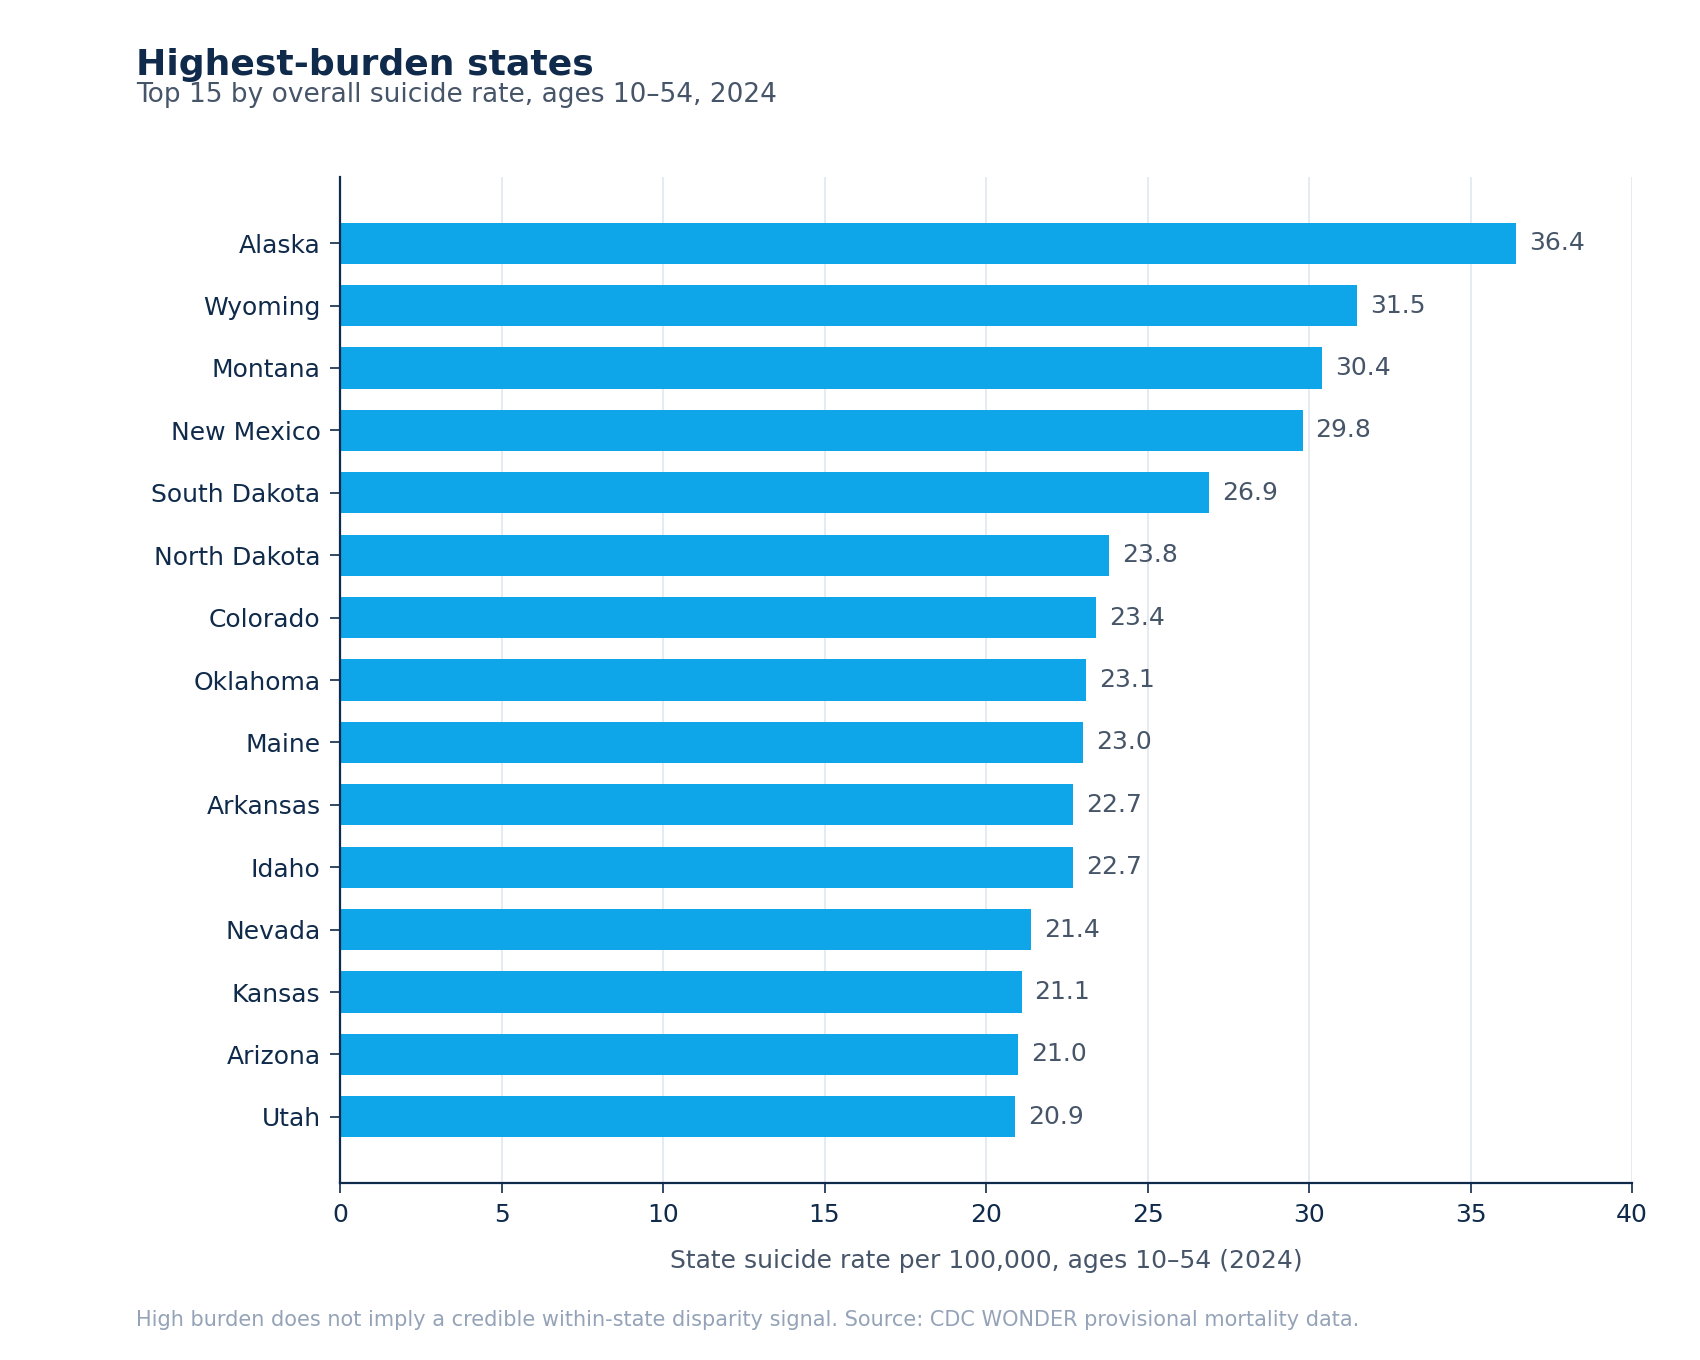
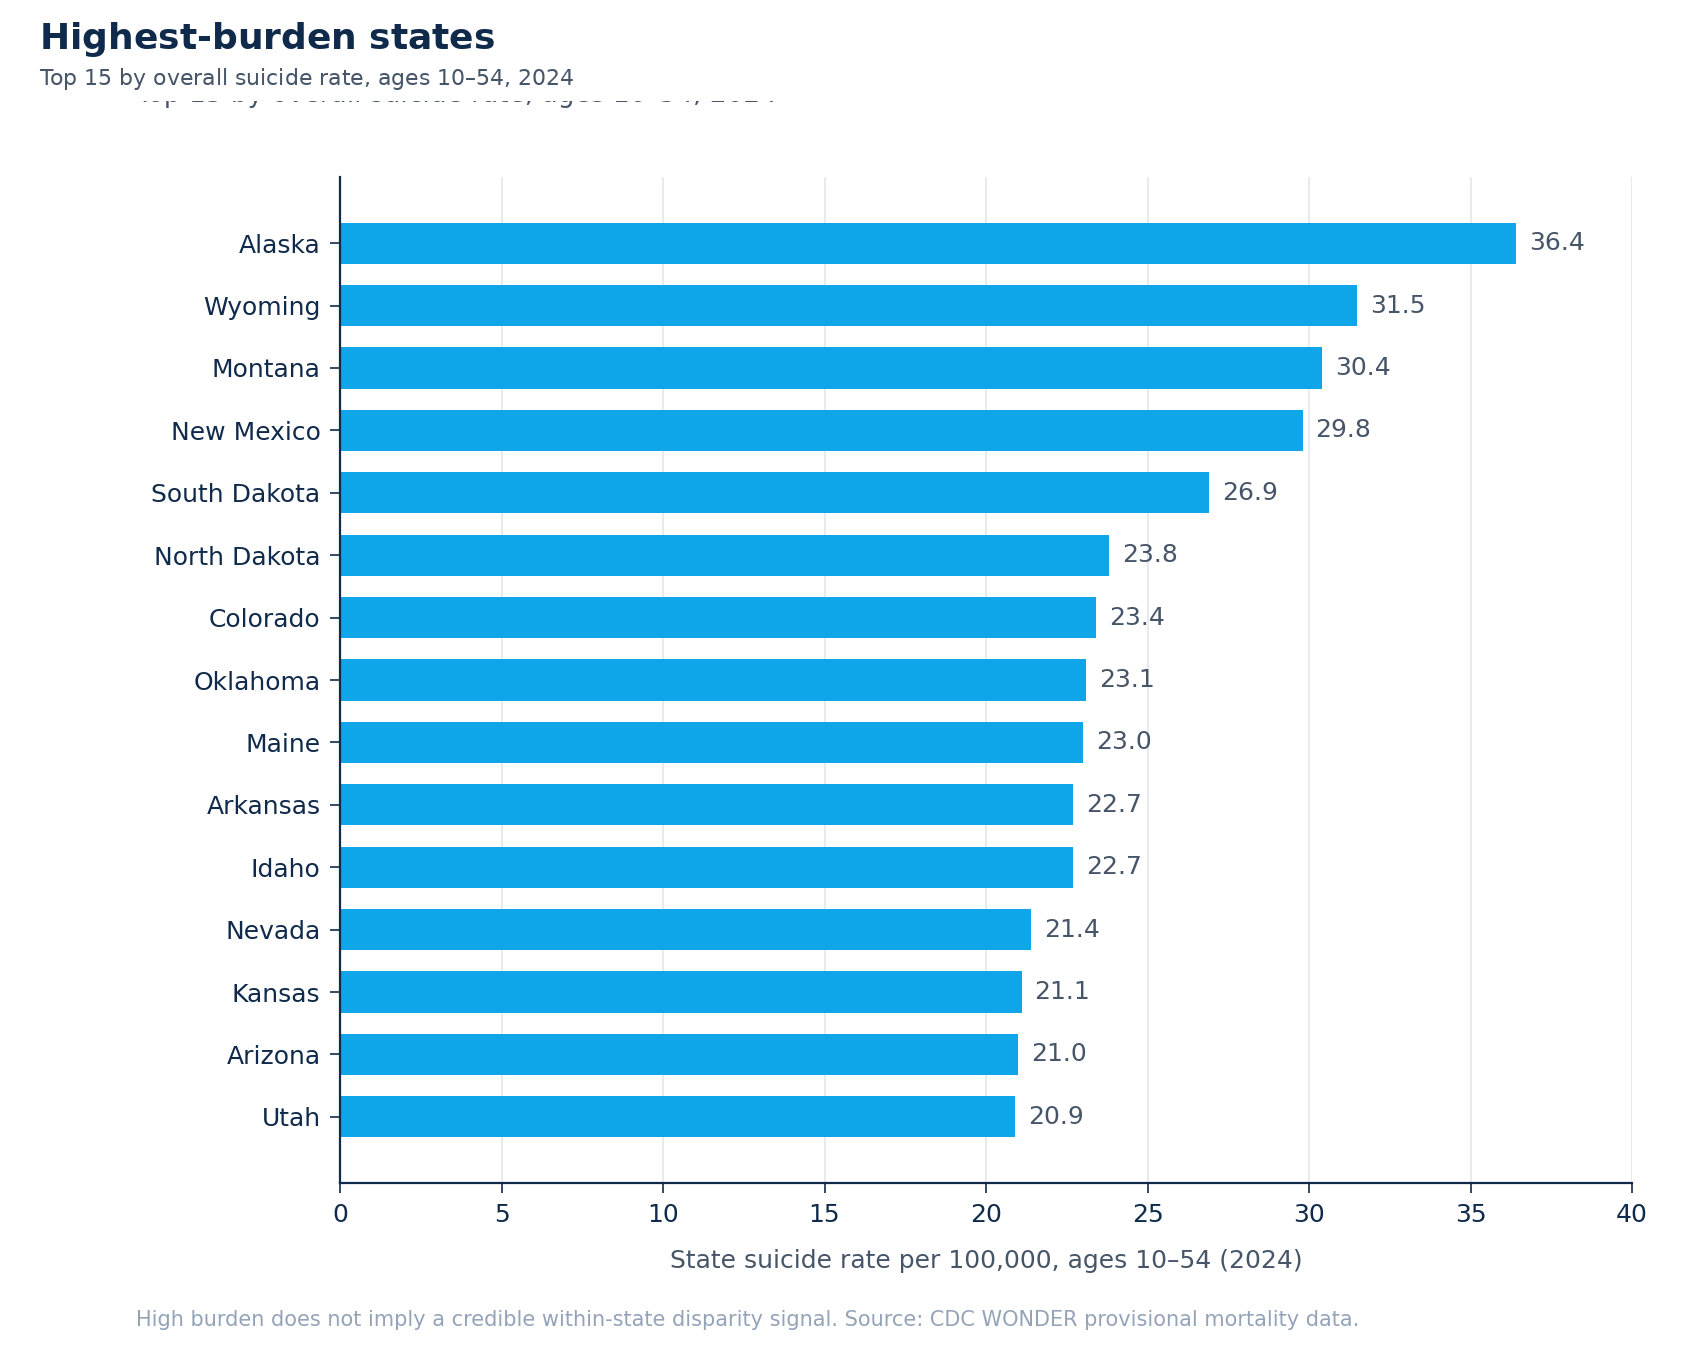
Add files via upload
revsied chart titles and addressing the senetcne structure issue

Changed region(s): [[0.0312, 0.0, 0.4053, 0.0926]]

diff --git a/app/library/essays.tsx b/app/library/essays.tsx
@@ -1680,19 +1680,19 @@ export const ESSAYS: Essay[] = [
           </p>
           <p>
             This is a field note, not a study. It is an exploratory,
-            reliability-filtered read of seven years of CDC WONDER mortality
-            data, and its only real claim is structural: burden and disparity
+            reliability-filtered read of CDC WONDER mortality data from 2021
+            to 2024, and its only real claim is structural: burden and disparity
             are two different signals, the priority list you would build from
             one is not the list you would build from the other, and a
             prioritization framework that shows both, and stays honest about
-            what it can’t see, changes the allocation decision. Written for the
-            person who has to defend that decision after it’s made.
+            what it can’t see, changes the allocation decision. This piece is
+            for the person who has to defend that decision after it’s made.
           </p>
         </Brief>
 
         <H2>The headline that hides the signal</H2>
         <P>
-          Start with the good news, because it is real. Across the younger age
+          Let’s start with the good news, because it is real. Across the younger age
           bands, suicide rates fell between 2021 and 2024, and not slightly.
           Ages 10–14 down about 16 percent. Ages 15–19 down 13 percent. Ages
           20–24 down 13 percent. Ages 25–34 down 12 percent. Four bands, every
@@ -1900,9 +1900,9 @@ export const ESSAYS: Essay[] = [
 
         <H2>What this is really about</H2>
         <P>
-          Strip the subject matter away and this is a decision-systems problem.
+          Underneath the subject matter, this is a decision-systems problem.
           An organization has a real decision to make (where prevention
-          resources go) and the data it holds is being read through a single
+          resources go), and the data it holds is being read through a single
           number that cannot carry the decision. The fix is not more data. It is
           a framework that disaggregates the signals the decision
           rests on, shows them together, and stays disciplined about its own
@@ -1978,7 +1978,7 @@ export const ESSAYS: Essay[] = [
         </Brief>
 
         <P>
-          Start with the confusion. It is real, and it is a clue. Ask ten
+          Let’s start with the confusion. It is real, and it is a clue. Ask ten
           organizations who owns data infrastructure and you get a tour of the
           alphabet: the CTO, the CIO, the CFO, the CFAO, the COO, a CDO, a CDAO,
           a Chief AI Officer, a Chief Innovation Officer, sometimes a Chief
@@ -2097,10 +2097,10 @@ export const ESSAYS: Essay[] = [
 
         <H2>The seat that is left</H2>
         <P>
-          Strip away the four embedded options and one seat is left: the one
-          already accountable for how the whole organization runs together. Call
-          it the integration seat. In most organizations, it is the Chief
-          Operating Officer.
+          The seat that’s left, once the four embedded options are set aside,
+          is the one already accountable for how the whole organization runs
+          together. Call it the integration seat. In most organizations, it is
+          the Chief Operating Officer.
         </P>
         <P>
           The COO is not a single function. The COO is the place the functions
@@ -2460,8 +2460,8 @@ export const ESSAYS: Essay[] = [
 
         <H2>What this asks of a leader</H2>
         <P>
-          Strip it all back and the leader’s question was never “should we adopt
-          agentic AI.” It is narrower and harder, and it is a list: for which
+          The leader’s real question was never “should we adopt agentic AI.”
+          It is narrower and harder, and it is a list: for which
           decisions, at what point on the autonomy dial, with what checkpoint,
           managed by whom, watched how. Not one of those is a technology
           question. Every one is a decision-system question, and they were the
@@ -2525,7 +2525,7 @@ export const ESSAYS: Essay[] = [
             skipped — invisible when it works, expensive to do well. This piece
             argues that higher education already owns the discipline to answer
             it, and has not yet pointed it at the AI systems now moving into
-            administrative use. Written for anyone adopting, governing, or
+            administrative use. This piece is for anyone adopting, governing, or
             evaluating one.
           </p>
         </Brief>

diff --git a/app/about/page.tsx b/app/about/page.tsx
@@ -27,7 +27,7 @@ const HIGHLIGHTS: { label: string; value: string }[] = [
   {
     label: "Background",
     value:
-      "PhD, Educational Measurement (University of Delaware) · Seven years of AI-evaluation research at ETS · Operational data practice across education and mental health organizations · Stanford Executive Education in AI-Driven Leadership",
+      "PhD, Educational Measurement (University of Delaware) · Seven years of AI-evaluation research at ETS · Operational data practice across education and mental health organizations · Stanford Executive Education in AI-Driven Leadership · MIT Sloan Executive Education in Implementing Agentic AI",
   },
 ];
 